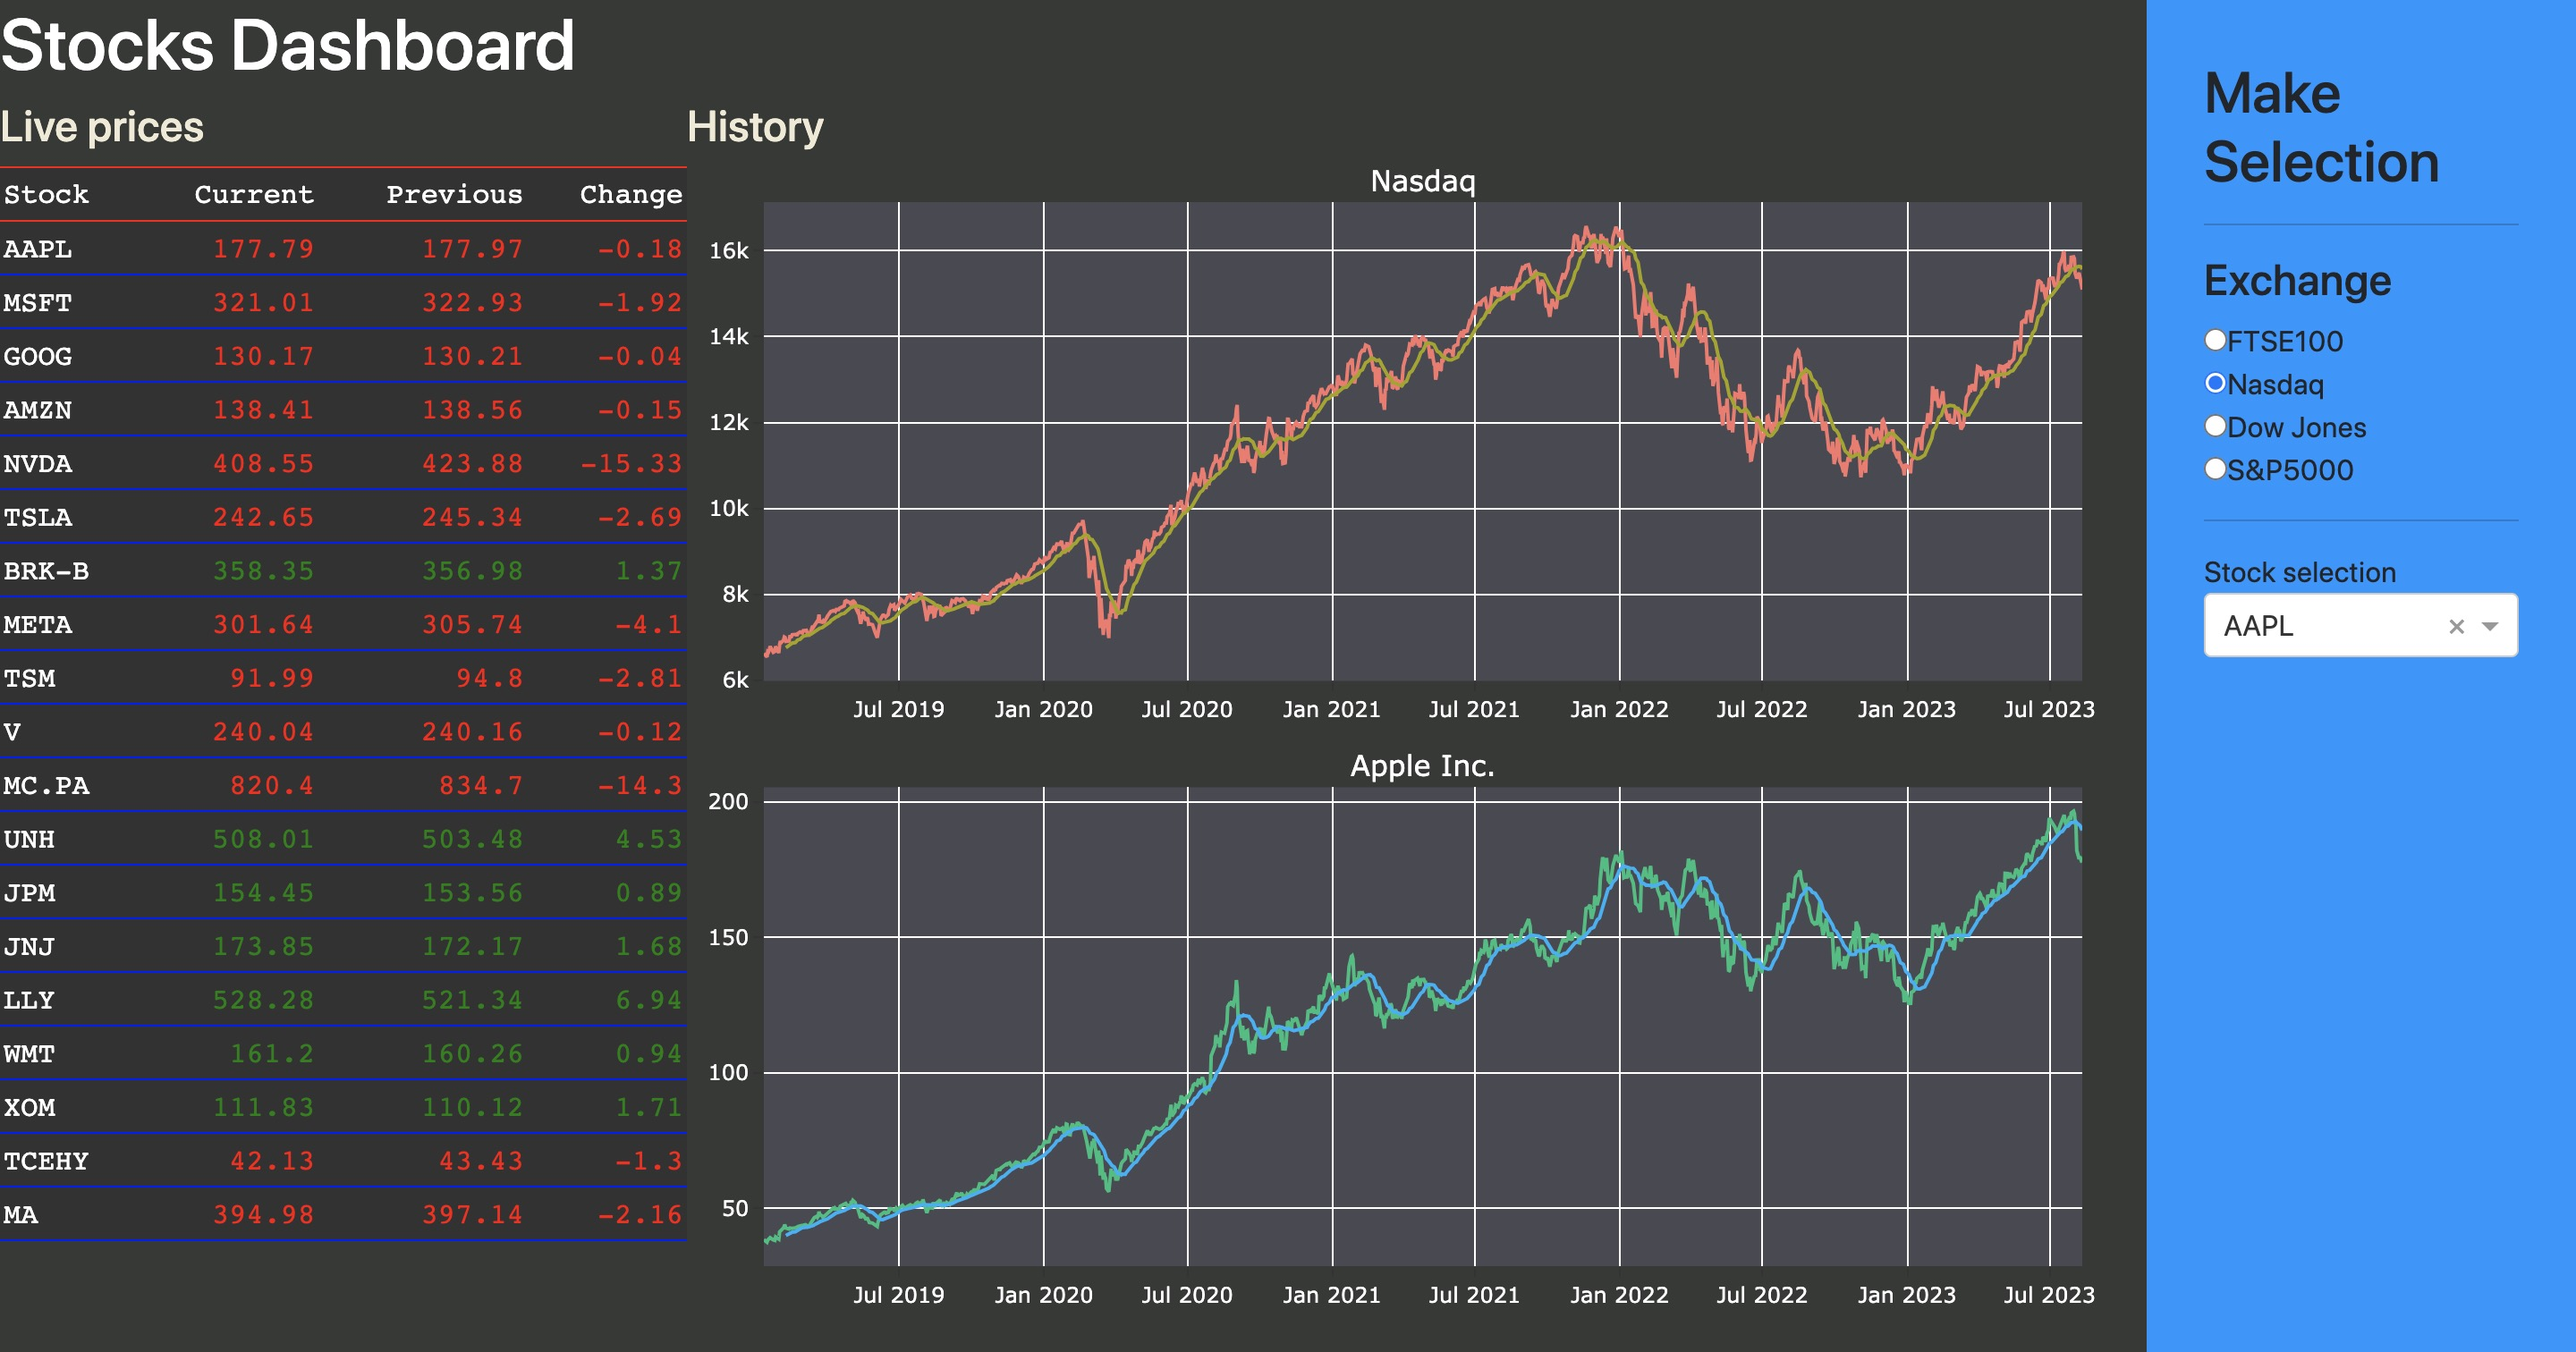
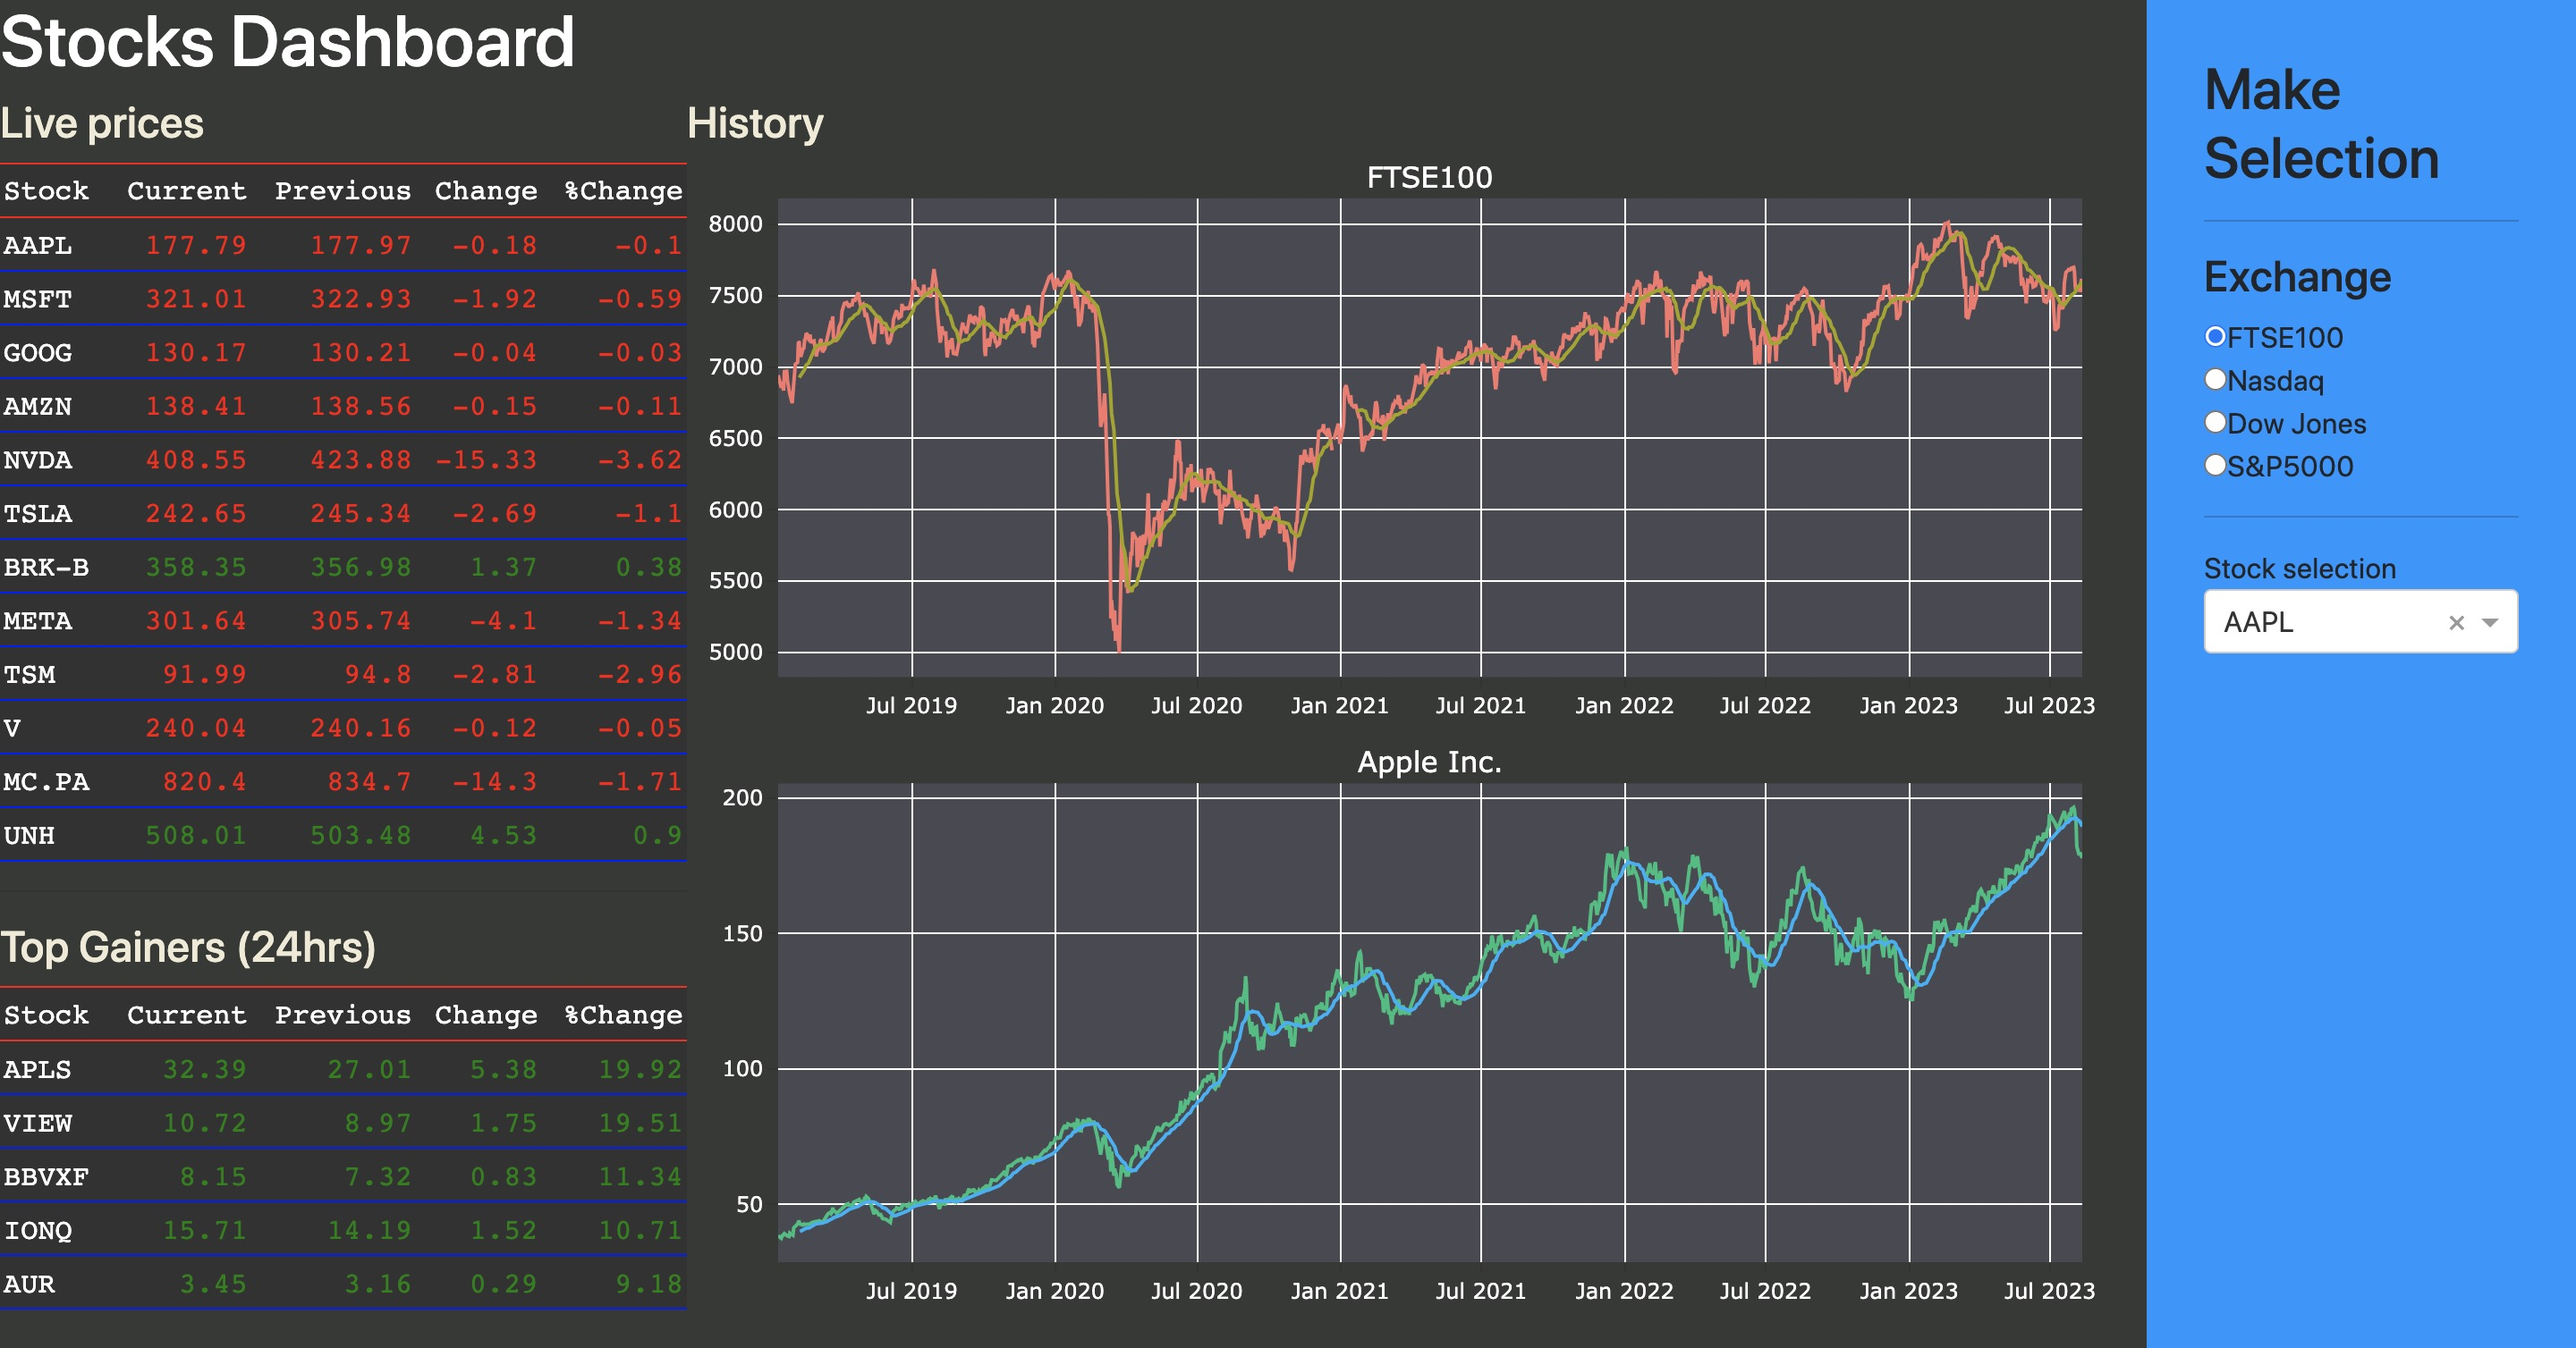
Gets top gainers

diff --git a/app/src/components/top_stocks_table.py b/app/src/components/top_stocks_table.py
@@ -6,6 +6,7 @@ import numpy as np
 from yahoofinancials import YahooFinancials
 
 from . import ids
+from src.components.get_gainers import get_gainers
 
 TABLE_STYLE = {
     "left": 0,
@@ -19,12 +20,25 @@ TABLE_STYLE = {
     "display": "inline-block",
 }
 
+CONDITION_STYLES = [
+        {
+            'if': {
+                'filter_query': '{Change} >= 0',
+                'column_id': ['Current', 'Previous', 'Change', '%Change']
+            },
+            'color': 'green'
+        },
+        {
+            'if': {
+                'filter_query': '{Change} < 0',
+                'column_id': ['Current', 'Previous', 'Change', '%Change']
+            },
+            'color': 'red'
+        }]
 
-def render(app: Dash) -> html.Div:
-    ## TODO HANDLE WEEKENDS AND HOLIDAYS
 
-    # Define top 20 stocks
-    stocks = ids.stocks.keys()
+
+def get_stock_table(stock_list: list[str]) ->pd.DataFrame():
 
     stocks_df = pd.DataFrame()
 
@@ -43,7 +57,7 @@ def render(app: Dash) -> html.Div:
     today_working = today_working + datetime.timedelta(days=1)
     today_prices = list()
     yesterday_prices = list()
-    for stock in stocks:
+    for stock in stock_list:
         stock_info = YahooFinancials(stock)
         history = stock_info.get_historical_price_data(
             prev_working.strftime("%Y-%m-%d"),
@@ -63,14 +77,27 @@ def render(app: Dash) -> html.Div:
             today_prices.append(0)
             yesterday_prices.append(0)
 
-    stocks_df["Stock"] = stocks
+    stocks_df["Stock"] = stock_list
     stocks_df["Current"] = today_prices
     stocks_df["Previous"] = yesterday_prices
-    stocks_df["Change"] = round(stocks_df.Current - stocks_df.Previous, 2)
+    stocks_df["Change"] = stocks_df.Current - stocks_df.Previous
+    stocks_df["%Change"] = (stocks_df.Change/stocks_df.Previous)*100
 
     stocks_df = stocks_df.round(2)
 
-    stocks_df.to_dict("records")
+    return stocks_df
+
+def render(app: Dash) -> html.Div:
+    ## TODO HANDLE WEEKENDS AND HOLIDAYS
+
+    # Define top 20 stocks
+    stocks = ids.stocks.keys()
+    gainers = get_gainers()
+
+    stocks_df = get_stock_table([val for val in stocks][:12])
+    gainers_df = get_stock_table(gainers[:5])
+
+    # stocks_df.to_dict("records")
 
     return html.Div(
         className="app-div",
@@ -89,22 +116,24 @@ def render(app: Dash) -> html.Div:
                 style_cell={"backgroundColor": "rgb(50, 50, 50)", "color": "white"},
                 style_as_list_view=True,
                 id="tbl",
-                style_data_conditional=[
-        {
-            'if': {
-                'filter_query': '{Change} >= 0',
-                'column_id': ['Current', 'Previous', 'Change']
-            },
-            'color': 'green'
-        },
-        {
-            'if': {
-                'filter_query': '{Change} < 0',
-                'column_id': ['Current', 'Previous', 'Change']
-            },
-            'color': 'red'
-        }],
-            ),
-        ],
-        style=TABLE_STYLE,
+                style_data_conditional=CONDITION_STYLES
+                ),
+                html.Hr(),
+                html.H4("Top Gainers (24hrs)", style={"color": "#F0EAD6"}),
+                dash_table.DataTable(
+                data=gainers_df.to_dict("records"),
+                columns=[{"id": c, "name": c} for c in stocks_df.columns],
+                style_cell_conditional=[
+                    {"if": {"column_id": c}, "textAlign": "left"} for c in ["Stock"]
+                ],
+                style_data={"border_bottom": "1px solid blue"},
+                style_header={"border": "1px solid red"},
+                style_cell={"backgroundColor": "rgb(50, 50, 50)", "color": "white"},
+                style_as_list_view=True,
+                id="tbl",
+                style_data_conditional=CONDITION_STYLES
+                )
+                ],
+        style=TABLE_STYLE
+        
     )

diff --git a/app/src/components/sidebar.py b/app/src/components/sidebar.py
@@ -2,6 +2,7 @@ from dash import Dash, html, dcc
 from dash.dependencies import Input, Output
 import dash_bootstrap_components as dbc
 from . import ids
+from src.components.get_gainers import get_gainers
 
 # the style arguments for the sidebar. We use position:fixed and a fixed width
 SIDEBAR_STYLE = {
@@ -14,6 +15,7 @@ SIDEBAR_STYLE = {
     "background-color": "#0096FF",
 }
 
+stocks_dropdown = list(ids.stocks) + get_gainers()
 
 def render(app: Dash) -> html.Div:
     return html.Div(
@@ -38,7 +40,7 @@ def render(app: Dash) -> html.Div:
             html.Hr(),
             "Stock selection",
             dcc.Dropdown(
-                options=[{"label": x, "value": x} for x in ids.stocks],
+                options=[{"label": x, "value": x} for x in stocks_dropdown],
                 id="stock_id",
                 value="AAPL",
             ),

diff --git a/app/src/components/get_gainers.py b/app/src/components/get_gainers.py
@@ -1,0 +1,22 @@
+import lxml.html
+import requests
+
+def get_gainers(url: str  = 'https://finance.yahoo.com/gainers') -> list[str]:
+    """Scrapes the top 5 gainers from Yahoo Finance website
+
+    Args:
+        url (str, optional): https://finance.yahoo.com/gainers
+
+    Returns:
+        list[str]: Top 5 stocks
+    """    
+
+    headers = {
+      'User-Agent': 'Mozilla/5.0 (Windows NT 10.0; rv:91.0) Gecko/20100101 Firefox/91.0'
+    }
+    ytext = requests.get(url,headers=headers).text
+    yroot = lxml.html.fromstring(ytext)
+    stocks = list()
+    for x in yroot.xpath('//*[@id="fin-scr-res-table"]//a'):
+        stocks.append(x.attrib['href'].split("/")[-1].split("?")[0])
+    return stocks[:5]

diff --git a/README.md b/README.md
@@ -3,6 +3,7 @@
 ## Technology stack used
 - Python
 - Plotly Dash
+- Yahoo Financials
 - Docker
 - AWS
 
